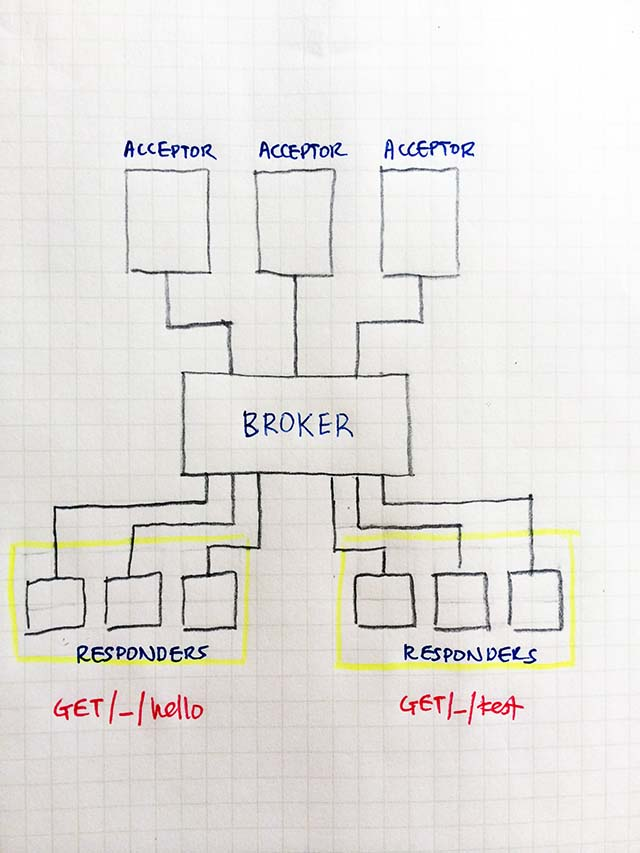
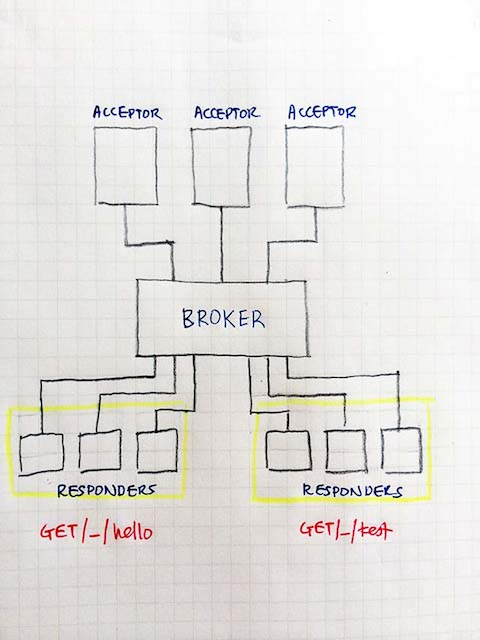
cleaned up README; resized image

diff --git a/README.md b/README.md
@@ -1,5 +1,3 @@
-# NOTE: The README is completely out of date pending the switch from RabbitMQ to ZMQ
-
 # Polyglot
 
 _Polyglot is experimental software and is a prototype implementation of an idea at the moment. Please use with caution and at your own risk!_
